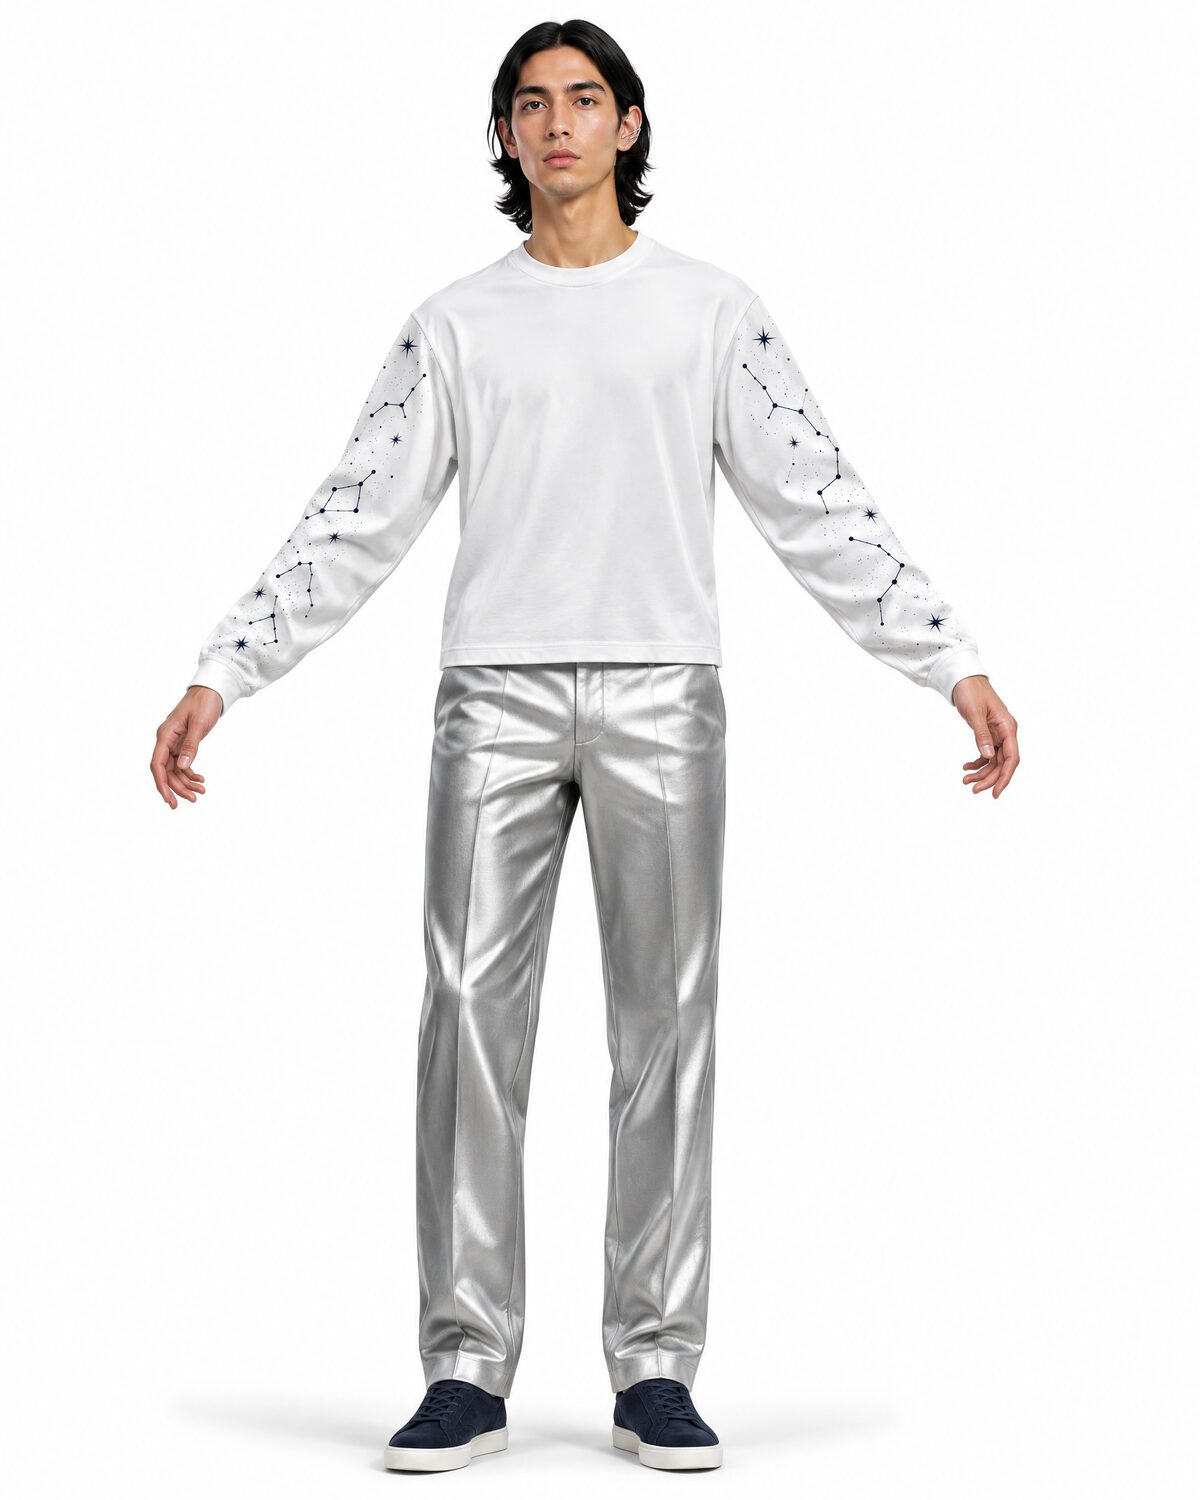
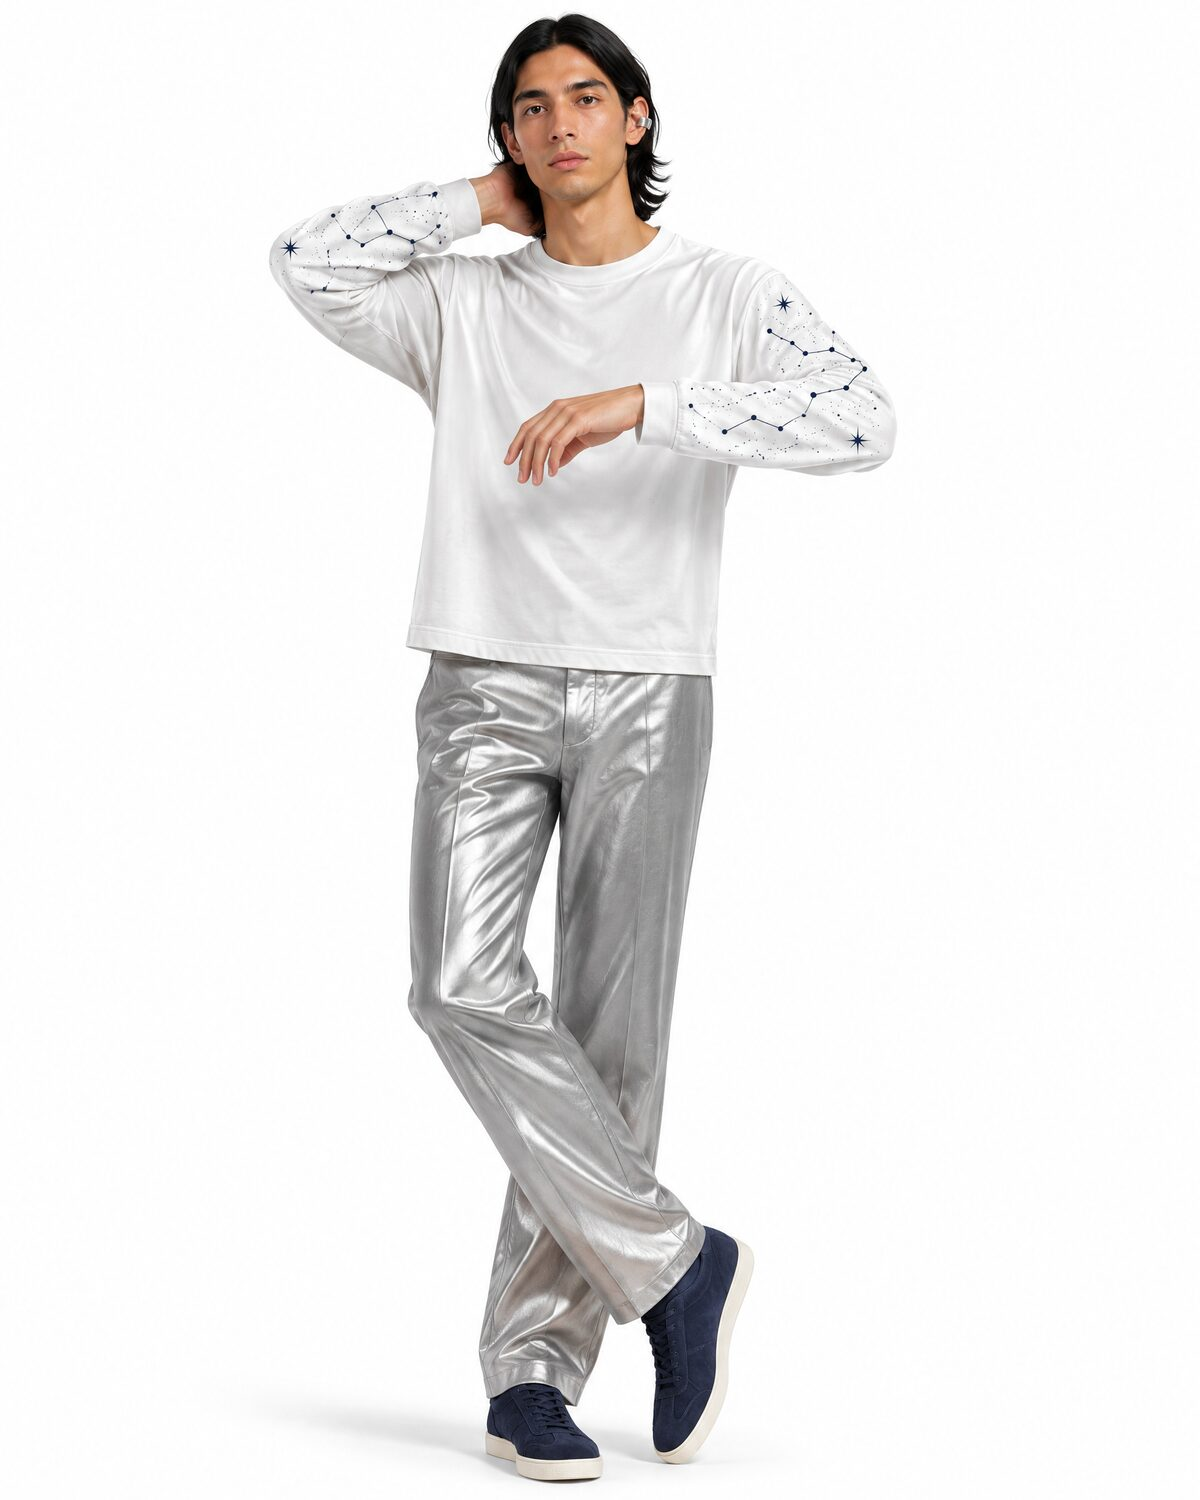
ÓRBITA: WIP sync (photos, site config)
Claude-Session: https://claude.ai/code/session_01VEFUWMZpR4F82W583t7syd

Changed region(s): [[0.1233, 0.0, 0.8633, 1.0]]

diff --git a/orbita/scripts/placeholder-logos.py b/orbita/scripts/placeholder-logos.py
@@ -93,9 +93,9 @@ def ellipse_point(cx, cy, rx, ry, rot_deg, t):
     return ellipse_pts(cx, cy, rx, ry, rot_deg, t, t, 1)[0]
 
 
-def band(draw, cx, cy, rx, ry, rot_deg, t0, t1, width, fill, n=1440):
+def band(draw, cx, cy, rx, ry, rot_deg, t0, t1, width, fill, n=1440, caps=True):
     """A clean stroke of constant `width` along a rotated elliptical arc, drawn as one polygon
-    (offset curves along the normal) so there are no polyline seams. Round caps at both ends."""
+    (offset curves along the normal) so there are no polyline seams. Optional round caps."""
     th = math.radians(rot_deg)
     ct, st = math.cos(th), math.sin(th)
     outer, inner = [], []
@@ -110,7 +110,7 @@ def band(draw, cx, cy, rx, ry, rot_deg, t0, t1, width, fill, n=1440):
             px, py = x + sgn * h * nx, y + sgn * h * ny
             acc.append((cx + px * ct - py * st, cy + px * st + py * ct))
     draw.polygon(outer + inner[::-1], fill=fill)
-    for t in (t0, t1):
+    for t in (t0, t1) if caps else ():
         x, y = ellipse_point(cx, cy, rx, ry, rot_deg, t)
         draw.ellipse([x - h, y - h, x + h, y + h], fill=fill)
 
@@ -148,53 +148,48 @@ def make_monogram(fontp, short, tracking, size=1000, dot=True):
 
 
 def make_graphic(fontp, name, tracking, size=1000):
-    """NAME wrapped by a tilted orbit ring + satellite. One colour: knockout gaps keep it legible."""
+    """NAME wrapped by a tilted orbit ring + satellite (garment / campaign graphic).
+    The back half of the ring disappears behind the word block; the front half crosses the
+    last letter with a paper knockout, so the one-colour mark stays legible."""
     font = ImageFont.truetype(fontp, size)
     top, cap = cap_metrics(font)
     tr = tracking * size
     w = text_run(font, name, tr)
-    W, H = w + size * 1.6, size * 3.2
+    W, H = w + size * 1.6, size * 3.4
     img, d = canvas(W, H)
     x0, y0 = (W - w) / 2, H / 2 - top - cap / 2  # cap band centred vertically
     cx, cy = W / 2, H / 2
 
-    rx, ry, rot = w * 0.6, cap * 0.92, -9
+    rx, ry, rot = w * 0.6, cap * 0.8, -5
     ring = cap * 0.075
-    gap = cap * 0.07
+    gap = cap * 0.075
 
-    # 1) back half of the ring (behind the letters)
+    # 1) back half of the ring, hidden behind the whole word block (accents included)
     band(d, cx, cy, rx, ry, rot, math.pi, 2 * math.pi, ring, INK)
-    # 2) letters with a paper halo (knocks the back arc out where it meets them)
-    draw_text(d, (x0, y0), font, name, tr, fill=PAPER, stroke=int(gap), stroke_fill=PAPER)
+    ink_top = min(font.getbbox(ch)[1] for ch in name)
+    d.rectangle([x0 - gap, y0 + ink_top - gap, x0 + w + gap, y0 + top + cap + gap], fill=PAPER)
+    # 2) letters
     draw_text(d, (x0, y0), font, name, tr)
-    # 3) front half of the ring, with its own paper halo over the letters
-    band(d, cx, cy, rx, ry, rot, 0, math.pi, ring + 2 * gap, PAPER)
+    # 3) front half of the ring, with a paper halo where it crosses the letters
+    band(d, cx, cy, rx, ry, rot, 0.04, math.pi - 0.04, ring + 2 * gap, PAPER, caps=False)
     band(d, cx, cy, rx, ry, rot, 0, math.pi, ring, INK)
-    # 4) satellite riding the front-right of the ring
-    sx, sy = ellipse_point(cx, cy, rx, ry, rot, math.radians(28))
+    # 4) satellite riding the right end of the ring
+    sx, sy = ellipse_point(cx, cy, rx, ry, rot, math.radians(20))
     disc(d, sx, sy, ring * 1.9 + gap, PAPER)
     disc(d, sx, sy, ring * 1.9)
     return img
 
 
 def draw_emblem(d, c, R):
-    """Planet + tilted ring + satellite inside a circle of radius R centred at (c, c)."""
-    rp = R * 0.42  # planet
-    rx, ry, rot = R * 0.98, R * 0.34, -24
-    ring = R * 0.085
-    gap = R * 0.07
-    # back half of the ring, then the planet with a paper halo over it
-    stroke_arc(d, ellipse_pts(c, c, rx, ry, rot, math.pi, 2 * math.pi), ring, INK)
-    disc(d, c, c, rp + gap, PAPER)
-    disc(d, c, c, rp)
-    # front half with a paper halo where it crosses the planet
-    front = ellipse_pts(c, c, rx, ry, rot, 0, math.pi)
-    d.line(front, fill=PAPER, width=int(ring + 2 * gap), joint="curve")
-    stroke_arc(d, front, ring, INK)
-    # satellite on the far (upper-right) side of the ring
-    sx, sy = ellipse_point(c, c, rx, ry, rot, math.radians(-38))
-    disc(d, sx, sy, ring * 1.55 + gap * 0.8, PAPER)
-    disc(d, sx, sy, ring * 1.55)
+    """Orbit: tilted elliptical ring around a planet, with a satellite riding the ring
+    (fits a circle of radius R centred at (c, c)). Reads down to 16 px."""
+    rx, ry, rot = R * 0.98, R * 0.36, -24
+    ring = R * 0.08
+    band(d, c, c, rx, ry, rot, 0, 2 * math.pi, ring, INK, caps=False)
+    disc(d, c, c, R * 0.24)  # planet
+    sx, sy = ellipse_point(c, c, rx, ry, rot, math.radians(-60))  # satellite, upper right
+    disc(d, sx, sy, R * 0.18, PAPER)
+    disc(d, sx, sy, R * 0.12)
 
 
 def make_emblem(size=1600):
